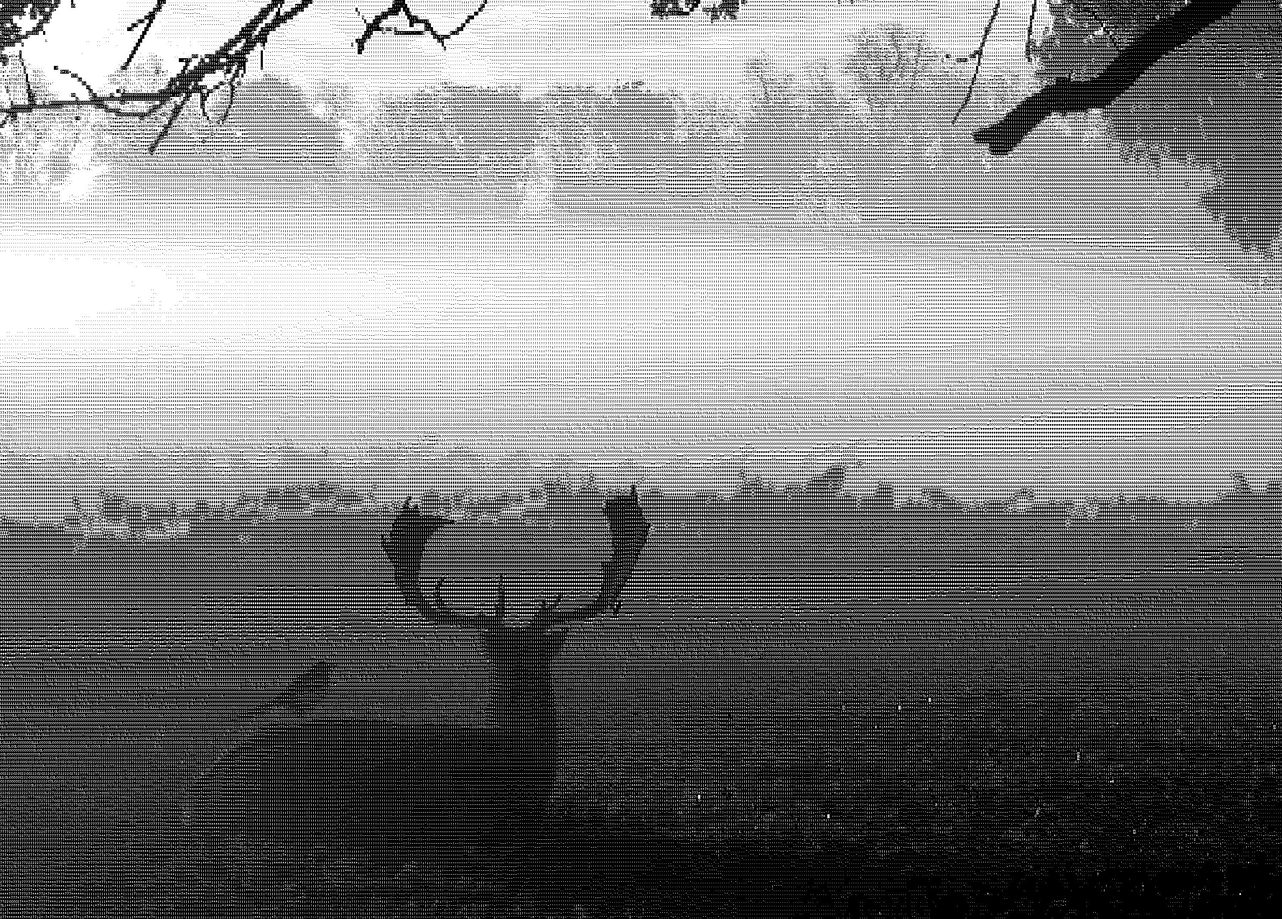
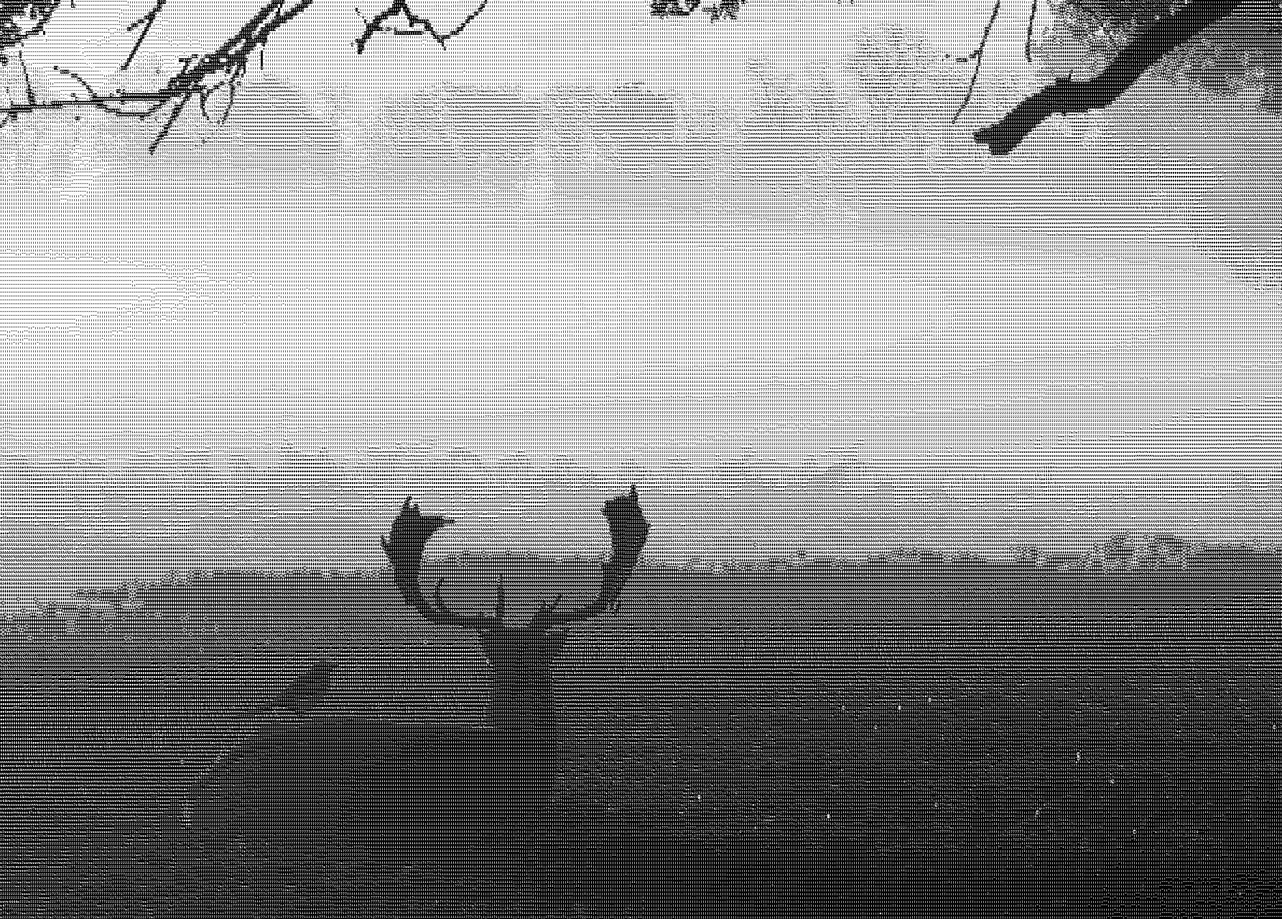
Removed histogram equalization
Histogram equalization is no longer needed given we can use inversed tiles

Changed region(s): [[0.0, 0.0, 1.0, 1.0], [0.0, 0.2475, 0.4329, 0.4023], [0.4948, 0.0, 0.5876, 0.0309]]

diff --git a/textixel.py b/textixel.py
@@ -39,7 +39,7 @@ class Tile():
         if self.black_count < other.black_count:
             return True
         elif self.black_count == other.black_count:
-            return self.char < other.char
+            return self.inverse < other.inverse
         else:
             return False
             
@@ -145,7 +145,7 @@ class App():
         #img.show()
         img = img.filter(ImageFilter.UnsharpMask())
         #img.show()
-        img = ImageOps.equalize(img)
+        #img = ImageOps.equalize(img)
         #img.show()        
         return img
             
